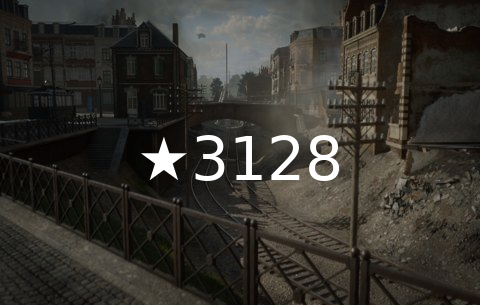
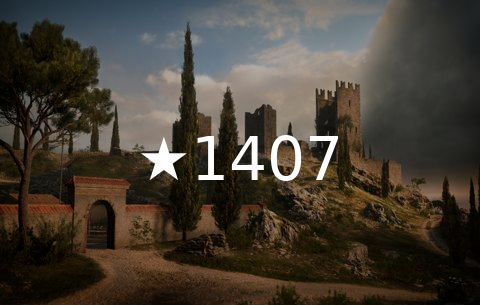
bf2 support

diff --git a/s1.py b/s1.py
@@ -5,10 +5,12 @@
 import aiohttp
 import discord
 import urllib.parse
+
 # default OS
 import os
 import asyncio
 import sys
+
 # image stuff
 from PIL import Image, ImageFont, ImageDraw
 
@@ -23,22 +25,24 @@ from PIL import Image, ImageFont, ImageDraw
 # GUILD = int(os.environ['guild'])
 # LANG = os.environ['lang']
 
-#config
+# config
 BOT_TOKEN = ""  # https://github.com/reactiflux/discord-irc/wiki/Creating-a-discord-bot-&-getting-a-token
-NAME = '' # name of the server it needs to search for
+NAME = ""  # name of the server it needs to search for
 
 # extra's:
-MESSAGE_CHANNEL = 0 # channel where it needs to post the message if almost empty etc.
-MIN_PLAYER_AMOUNT = 20 # amount of change needed to count
-AMOUNT_OF_PREVIOUS_REQUESTS = 5 # amount of request to use for the calculation if the difference is more thatn min_player_amount
-STARTED_AMOUNT = 50 # amount of players before it calls the server "started"
-GUILD = 0 # discord group id where is needs to post the message
-LANG = "en-us" # language for the mapname etc.
-GAME = "bfv" # game to use for the bot: bf4/bf1 (bfv doesnt have favorites amount visable)
+MESSAGE_CHANNEL = 0  # channel where it needs to post the message if almost empty etc.
+MIN_PLAYER_AMOUNT = 20  # amount of change needed to count
+AMOUNT_OF_PREVIOUS_REQUESTS = 5  # amount of request to use for the calculation if the difference is more thatn min_player_amount
+STARTED_AMOUNT = 50  # amount of players before it calls the server "started"
+GUILD = 0  # discord group id where is needs to post the message
+LANG = "en-us"  # language for the mapname etc.
+GAME = (
+    "bf1"  # game to use for the bot: bf4/bf1 (bfv doesnt have favorites amount visable)
+)
 # choose image from the sample files, they will auto-update in code.
-AVATARIMAGE = "avatar_image" #.png - image to show as avatar
-MESSAGEIMAGE = "info_image" #.png - image you want to show in message
-SMALLFONT = "DejaVuSans.ttf" # fontfile used in the image
+AVATARIMAGE = "avatar_image"  # .png - image to show as avatar
+MESSAGEIMAGE = "info_image"  # .png - image you want to show in message
+SMALLFONT = "DejaVuSans.ttf"  # fontfile used in the image
 BIGFONT = "Catamaran-SemiBold.ttf"
 
 """BF1 version"""
@@ -46,6 +50,7 @@ BIGFONT = "Catamaran-SemiBold.ttf"
 sinceEmpty = False
 previousRequests = []
 sincePlayerTrigger = AMOUNT_OF_PREVIOUS_REQUESTS
+
 
 class LivePlayercountBot(discord.Client):
     """Discord bot to display the Battlefield tracker's true playercount in the bot status"""
@@ -59,9 +64,13 @@ class LivePlayercountBot(discord.Client):
                 try:
                     # change status
                     newstatus = await get_playercount(session)
-                    if newstatus['serverInfo'] != status:  # avoid spam to the discord API
-                        await self.change_presence(activity=discord.Game(newstatus['serverInfo']))
-                        status = newstatus['serverInfo']
+                    if (
+                        newstatus["serverInfo"] != status
+                    ):  # avoid spam to the discord API
+                        await self.change_presence(
+                            activity=discord.Game(newstatus["serverInfo"])
+                        )
+                        status = newstatus["serverInfo"]
                     # send messages
                     try:
                         if MESSAGE_CHANNEL != 0:
@@ -69,28 +78,64 @@ class LivePlayercountBot(discord.Client):
                             global sincePlayerTrigger  # to not let it spam
                             test = False
                             for request in previousRequests:
-                                if float(request)-float(newstatus["playerAmount"]) >= MIN_PLAYER_AMOUNT and sincePlayerTrigger > AMOUNT_OF_PREVIOUS_REQUESTS*2: # check last few requests for changes
-                                    await createMessage(self, MESSAGEIMAGE, newstatus, f"I'm low on players! Join me now!", f"Perfect time to join without queue!\n{newstatus['serverInfo']}")
+                                if (
+                                    float(request) - float(newstatus["playerAmount"])
+                                    >= MIN_PLAYER_AMOUNT
+                                    and sincePlayerTrigger
+                                    > AMOUNT_OF_PREVIOUS_REQUESTS * 2
+                                ):  # check last few requests for changes
+                                    await createMessage(
+                                        self,
+                                        MESSAGEIMAGE,
+                                        newstatus,
+                                        f"I'm low on players! Join me now!",
+                                        f"Perfect time to join without queue!\n{newstatus['serverInfo']}",
+                                    )
                                     sincePlayerTrigger = 0
                                     test = True
                                     break
-                            if not test: # if none worked
+                            if not test:  # if none worked
                                 sincePlayerTrigger += 1
-    
-                            if newstatus["playerAmount"] <= 5: # counter since empty
+
+                            if newstatus["playerAmount"] <= 5:  # counter since empty
                                 sinceEmpty = True
-    
-                            if sinceEmpty == True and newstatus["playerAmount"] >= STARTED_AMOUNT: # run if 1 hour after starting and playercount is good
-                                await createMessage(self, MESSAGEIMAGE, newstatus, f"I'm up and running!", f"Feeling good :slight_smile:\n{newstatus['serverInfo']}")
+
+                            if (
+                                sinceEmpty == True
+                                and newstatus["playerAmount"] >= STARTED_AMOUNT
+                            ):  # run if 1 hour after starting and playercount is good
+                                await createMessage(
+                                    self,
+                                    MESSAGEIMAGE,
+                                    newstatus,
+                                    f"I'm up and running!",
+                                    f"Feeling good :slight_smile:\n{newstatus['serverInfo']}",
+                                )
                                 sinceEmpty = False
-    
-                            if newstatus["playerAmount"] >= MIN_PLAYER_AMOUNT and len(previousRequests) >= AMOUNT_OF_PREVIOUS_REQUESTS: # if current is above or at 20 players and runs for at least a few mins
-                                if all(MIN_PLAYER_AMOUNT>request for request in previousRequests): # if the past messages are below 20
-                                    await createMessage(self, MESSAGEIMAGE, newstatus, f"Pre-round is over!", f"No more waiting. If you join now you can instantly play.\n{newstatus['serverInfo']}")
-    
-                            if len(previousRequests) >= AMOUNT_OF_PREVIOUS_REQUESTS: # if it has run more than 4 times
-                                previousRequests.pop(0) # remove first item
-                            previousRequests.append(newstatus["playerAmount"]) # add current in back
+
+                            if (
+                                newstatus["playerAmount"] >= MIN_PLAYER_AMOUNT
+                                and len(previousRequests) >= AMOUNT_OF_PREVIOUS_REQUESTS
+                            ):  # if current is above or at 20 players and runs for at least a few mins
+                                if all(
+                                    MIN_PLAYER_AMOUNT > request
+                                    for request in previousRequests
+                                ):  # if the past messages are below 20
+                                    await createMessage(
+                                        self,
+                                        MESSAGEIMAGE,
+                                        newstatus,
+                                        f"Pre-round is over!",
+                                        f"No more waiting. If you join now you can instantly play.\n{newstatus['serverInfo']}",
+                                    )
+
+                            if (
+                                len(previousRequests) >= AMOUNT_OF_PREVIOUS_REQUESTS
+                            ):  # if it has run more than 4 times
+                                previousRequests.pop(0)  # remove first item
+                            previousRequests.append(
+                                newstatus["playerAmount"]
+                            )  # add current in back
                     except Exception as e:
                         exc_type, exc_obj, exc_tb = sys.exc_info()
                         fname = os.path.split(exc_tb.tb_frame.f_code.co_filename)[1]
@@ -98,7 +143,7 @@ class LivePlayercountBot(discord.Client):
                     # change picture
                     if picture != newstatus["serverMap"]:
                         picture = newstatus["serverMap"]
-                        with open(f'{AVATARIMAGE}.png', 'rb') as f: 
+                        with open(f"{AVATARIMAGE}.png", "rb") as f:
                             await self.user.edit(avatar=f.read())
                 except Exception as e:
                     exc_type, exc_obj, exc_tb = sys.exc_info()
@@ -106,36 +151,61 @@ class LivePlayercountBot(discord.Client):
                     print(f"updateStatus: {e} - line {exc_tb.tb_lineno} {fname}")
                 await asyncio.sleep(120)
 
+
 async def createMessage(self, image_url, newstatus, title, description):
     file = discord.File(f"{image_url}.png", filename=f"{image_url}.png")
     channel = self.get_channel(MESSAGE_CHANNEL)
     embed = discord.Embed(color=0xFFA500, title=title, description=description)
-    embed.set_footer(text=f"player threshold set to {MIN_PLAYER_AMOUNT} players, checks difference of previous {(AMOUNT_OF_PREVIOUS_REQUESTS*2)} minutes and in-between")
-    embed.set_thumbnail(url=f"attachment://{image_url}.png") # small image
+    embed.set_footer(
+        text=f"player threshold set to {MIN_PLAYER_AMOUNT} players, checks difference of previous {(AMOUNT_OF_PREVIOUS_REQUESTS*2)} minutes and in-between"
+    )
+    embed.set_thumbnail(url=f"attachment://{image_url}.png")  # small image
     # embed.set_image(url=f"attachment://{image_url}.png") # bigger image
     await channel.send(embed=embed, file=file)
 
-async def get_playercount(session):
-    try:
-        url = f"https://api.gametools.network/{GAME}/detailedserver?name={urllib.parse.quote(NAME)}&lang={LANG}"
-        async with session.get(url=url) as r:
-            response = await r.json()
-    except Exception as e:
-        print(f"Server not found or api.gametools.network unreachable - {e}")
-        return
-    
-    try:
-        players = response['playerAmount']
-        maxPlayers = response['maxPlayerAmount']
-        inQue = response['inQueue']
-        serverMap = response['currentMap']
 
+async def get_playercount(session):
+    if GAME in ["bf2042", "bfv", "bf1", "bf4", "bf3", "bfh"]:
+        try:
+            url = f"https://api.gametools.network/{GAME}/detailedserver?name={urllib.parse.quote(NAME)}&lang={LANG}"
+            async with session.get(url=url) as r:
+                response = await r.json()
+                # results
+                players = response.get("playerAmount", 0)
+                maxPlayers = response.get("maxPlayerAmount", 0)
+                inQue = response.get("inQueue", 0)
+                serverMap = response.get("currentMap", "")
+                prefix = response.get("prefix", "")[0:30]
+                url = response.get("currentMapImage", "")
+                mode = response.get("mode", "")
+        except Exception as e:
+            print(f"Server not found or api.gametools.network unreachable - {e}")
+            return
+    else:
+        try:
+            url = f"https://api.gametools.network/{GAME}/servers?name={urllib.parse.quote(NAME)}&lang={LANG}"
+            async with session.get(url=url) as r:
+                response = await r.json()
+                first_result = response.get("servers", [])[0]
+                players = first_result.get("playerAmount", 0)
+                maxPlayers = first_result.get("maxPlayers", 0)
+                inQue = first_result.get("inQueue", 0)
+                serverMap = first_result.get("map", "")
+                prefix = first_result.get("prefix", "")[0:30]
+                url = first_result.get("mapImage", "")
+                mode = first_result.get("mode", "")
+
+        except Exception as e:
+            print(f"Server not found or api.gametools.network unreachable - {e}")
+            return
+
+    try:
         # dont allow names longer than 30 characters
-        prefix = response['prefix'][0:30]
-        serverInfo = f"{players}/{maxPlayers} [{inQue}] - {serverMap}"  # discord status message
+        serverInfo = (
+            f"{players}/{maxPlayers} [{inQue}] - {serverMap}"  # discord status message
+        )
 
         # create image with only map
-        url = response['currentMapImage']
         async with session.get(url=url) as r:
             image = await r.read()
         file = open("map_image.png", "wb")
@@ -143,7 +213,6 @@ async def get_playercount(session):
         file.close()
 
         # create image with mapmode
-        mode = response['mode']
         smallmode = ""
         if mode == "Conquest":
             smallmode = "CQ"
@@ -162,7 +231,7 @@ async def get_playercount(session):
         elif mode == "TeamDeathMatch":
             smallmode = "TM"
 
-        #creating the images:
+        # creating the images:
         img = Image.open("map_image.png")
         img = img.convert("RGBA")
 
@@ -176,29 +245,39 @@ async def get_playercount(session):
         # draw smallmode
         draw = ImageDraw.Draw(img)
         _, _, w, h = draw.textbbox((0, 0), smallmode, font=font)
-        draw.text(((img.width - w) / 2, (img.height - h - 50) / 2), smallmode, font=font)
-        img.save('map_mode.png')
+        draw.text(
+            ((img.width - w) / 2, (img.height - h - 50) / 2), smallmode, font=font
+        )
+        img.save("map_mode.png")
 
         # get favorites
-        if GAME != "bfv":
-            serverBookmarkCount = response['favorites']
+        if GAME in ["bf2042", "bf1", "bf4", "bf3", "bfh"]:
+            serverBookmarkCount = response.get("favorites", 0)
 
             # draw bookmark
             img = Image.open("map_mode.png")
-            draw = ImageDraw.Draw(img) 
-            serverCountMessage = u"\u2605" + serverBookmarkCount
+            draw = ImageDraw.Draw(img)
+            serverCountMessage = "\u2605" + serverBookmarkCount
             _, _, w, h = draw.textbbox((0, 0), serverCountMessage, font=smallFont)
-            draw.text(((img.width - w) / 2 - 40, (img.height - h + 160) / 2), serverCountMessage, font=smallFont)
-        img.save('avatar_image.png')
+            draw.text(
+                ((img.width - w) / 2 - 40, (img.height - h + 160) / 2),
+                serverCountMessage,
+                font=smallFont,
+            )
+        img.save("avatar_image.png")
 
         # draw infoImage
         img = Image.open("map_mode.png")
-        draw = ImageDraw.Draw(img) 
-        if GAME != "bfv":
-            serverCountMessage = u"\u2605" + serverBookmarkCount
+        draw = ImageDraw.Draw(img)
+        if GAME in ["bf2042", "bf1", "bf4", "bf3", "bfh"]:
+            serverCountMessage = "\u2605" + serverBookmarkCount
             _, _, w, h = draw.textbbox((0, 0), serverCountMessage, font=smallFont)
-            draw.text(((img.width - w) / 2 , (img.height - h + 160) / 2), serverCountMessage, font=smallFont)
-        img.save('info_image.png')
+            draw.text(
+                ((img.width - w) / 2, (img.height - h + 160) / 2),
+                serverCountMessage,
+                font=smallFont,
+            )
+        img.save("info_image.png")
 
         # draw bookmark
         img = Image.open("map_image.png")
@@ -206,19 +285,29 @@ async def get_playercount(session):
 
         tint = Image.new("RGBA", (img.width, img.height), (0, 0, 0, 80))
         img = Image.alpha_composite(img, tint)
-        draw = ImageDraw.Draw(img) 
-        if GAME != "bfv":
-            serverCountMessage = u"\u2605" + serverBookmarkCount
+        draw = ImageDraw.Draw(img)
+        if GAME in ["bf2042", "bf1", "bf4", "bf3", "bfh"]:
+            serverCountMessage = "\u2605" + serverBookmarkCount
             _, _, w, h = draw.textbbox((0, 0), serverCountMessage, font=favoritesFont)
-            draw.text(((img.width - w) / 2, (img.height - h) / 2), serverCountMessage, font=favoritesFont)
-        img.save('only_favorites_image.png')
+            draw.text(
+                ((img.width - w) / 2, (img.height - h) / 2),
+                serverCountMessage,
+                font=favoritesFont,
+            )
+        img.save("only_favorites_image.png")
 
-        return {"serverInfo": serverInfo, "serverName": prefix, "serverMap": serverMap, "playerAmount": inQue+players}
+        return {
+            "serverInfo": serverInfo,
+            "serverName": prefix,
+            "serverMap": serverMap,
+            "playerAmount": inQue + players,
+        }
 
     except Exception as e:
         exc_type, exc_obj, exc_tb = sys.exc_info()
         fname = os.path.split(exc_tb.tb_frame.f_code.co_filename)[1]
         print(f"playerList: {e} - line {exc_tb.tb_lineno} {fname}")
+
 
 if __name__ == "__main__":
     assert sys.version_info >= (3, 6), "Script requires Python 3.6+"
